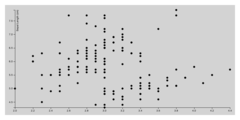
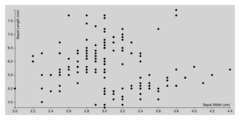
Updated linked view example README

diff --git a/docs/reactivis.html b/docs/reactivis.html
@@ -251,7 +251,7 @@ store D3 selections of DOM elements on the model.</p>
             </div>
             
             <div class="content"><div class='highlight'><pre>    model.when(<span class="hljs-string">"container"</span>, <span class="hljs-function"><span class="hljs-keyword">function</span> <span class="hljs-params">(container)</span> </span>{
-      model.svg = d3.select(container).append(<span class="hljs-string">'svg'</span>)</pre></div></div>
+      model.svg = d3.select(container).append(<span class="hljs-string">'svg'</span>);</pre></div></div>
             
         </li>
         
@@ -264,12 +264,12 @@ store D3 selections of DOM elements on the model.</p>
               </div>
               <p>Use absolute positioning on the SVG element 
 so that CSS can be used to position the div later
-according to the model <code>box.x</code> and <code>box.y</code> properties.</p>
+according to the model <code>box.x</code> and <code>box.y</code> properties.
+.style(‘position’, ‘absolute’);</p>
 
             </div>
             
-            <div class="content"><div class='highlight'><pre>        .style(<span class="hljs-string">'position'</span>, <span class="hljs-string">'absolute'</span>);
-    });</pre></div></div>
+            <div class="content"><div class='highlight'><pre>    });</pre></div></div>
             
         </li>
         
@@ -313,14 +313,14 @@ according to the model <code>box.x</code> and <code>box.y</code> properties.</p>
               </div>
               <p>Set the CSS <code>left</code> and <code>top</code> properties
 to move the SVG element to <code>(box.x, box.y)</code>
-relative to the container to apply the offset.</p>
+relative to the container to apply the offset.
+svg
+ .style(‘left’, box.x + ‘px’)
+ .style(‘top’, box.y + ‘px’);</p>
 
             </div>
             
-            <div class="content"><div class='highlight'><pre>      svg
-        .style(<span class="hljs-string">'left'</span>, box.x + <span class="hljs-string">'px'</span>)
-        .style(<span class="hljs-string">'top'</span>, box.y + <span class="hljs-string">'px'</span>);
-    });</pre></div></div>
+            <div class="content"><div class='highlight'><pre>    });</pre></div></div>
             
         </li>
         
@@ -397,6 +397,23 @@ relative to the container to apply the offset.</p>
               <div class="pilwrap ">
                 <a class="pilcrow" href="#section-19">&#182;</a>
               </div>
+              <p>Update the X axis label position when width changes.</p>
+
+            </div>
+            
+            <div class="content"><div class='highlight'><pre>    model.when([<span class="hljs-string">"xAxisText"</span>, <span class="hljs-string">"width"</span>], <span class="hljs-function"><span class="hljs-keyword">function</span> <span class="hljs-params">(xAxisText, width)</span> </span>{
+      xAxisText.attr(<span class="hljs-string">"x"</span>, width);
+    });</pre></div></div>
+            
+        </li>
+        
+        
+        <li id="section-20">
+            <div class="annotation">
+              
+              <div class="pilwrap ">
+                <a class="pilcrow" href="#section-20">&#182;</a>
+              </div>
               <p>Update the X axis based on the X scale.</p>
 
             </div>
@@ -404,6 +421,23 @@ relative to the container to apply the offset.</p>
             <div class="content"><div class='highlight'><pre>    model.when([<span class="hljs-string">"xAxisG"</span>, <span class="hljs-string">"xScale"</span>], <span class="hljs-function"><span class="hljs-keyword">function</span> <span class="hljs-params">(xAxisG, xScale)</span> </span>{
       xAxis.scale(xScale);
       xAxisG.call(xAxis);
+    });</pre></div></div>
+            
+        </li>
+        
+        
+        <li id="section-21">
+            <div class="annotation">
+              
+              <div class="pilwrap ">
+                <a class="pilcrow" href="#section-21">&#182;</a>
+              </div>
+              <p>Update X axis label.</p>
+
+            </div>
+            
+            <div class="content"><div class='highlight'><pre>    model.when([<span class="hljs-string">"xAxisText"</span>, <span class="hljs-string">"xAxisLabel"</span>], <span class="hljs-function"><span class="hljs-keyword">function</span> <span class="hljs-params">(xAxisText, xAxisLabel)</span> </span>{
+      xAxisText.text(xAxisLabel);
     });
   };
 
@@ -425,11 +459,11 @@ relative to the container to apply the offset.</p>
         </li>
         
         
-        <li id="section-20">
+        <li id="section-22">
             <div class="annotation">
               
               <div class="pilwrap ">
-                <a class="pilcrow" href="#section-20">&#182;</a>
+                <a class="pilcrow" href="#section-22">&#182;</a>
               </div>
               <p>Adjust Y axis tick mark parameters.
 See <a href="https://github.com/mbostock/d3/wiki/Quantitative-Scales#linear_tickFormat">https://github.com/mbostock/d3/wiki/Quantitative-Scales#linear_tickFormat</a></p>
@@ -443,29 +477,46 @@ See <a href="https://github.com/mbostock/d3/wiki/Quantitative-Scales#linear_tick
         </li>
         
         
-        <li id="section-21">
+        <li id="section-23">
             <div class="annotation">
               
               <div class="pilwrap ">
-                <a class="pilcrow" href="#section-21">&#182;</a>
+                <a class="pilcrow" href="#section-23">&#182;</a>
               </div>
               <p>Update the Y axis based on the Y scale.</p>
 
             </div>
             
-            <div class="content"><div class='highlight'><pre>    model.when([<span class="hljs-string">"yAxisG"</span>, <span class="hljs-string">"yScale"</span>], <span class="hljs-function"><span class="hljs-keyword">function</span> <span class="hljs-params">(yAxisG, yScale)</span> </span>{
+            <div class="content"><div class='highlight'><pre>    model.when([<span class="hljs-string">"yAxisG"</span>, <span class="hljs-string">"yScale"</span>], <span class="hljs-function"><span class="hljs-keyword">function</span> <span class="hljs-params">(yAxisG, yScale)</span> </span>{</pre></div></div>
+            
+        </li>
+        
+        
+        <li id="section-24">
+            <div class="annotation">
+              
+              <div class="pilwrap ">
+                <a class="pilcrow" href="#section-24">&#182;</a>
+              </div>
+              <p>TODO mote transitionDuration into the model.</p>
+
+            </div>
+            
+            <div class="content"><div class='highlight'><pre>      <span class="hljs-keyword">var</span> transitionDuration = <span class="hljs-number">100</span>;
       yAxis.scale(yScale);
-      yAxisG.call(yAxis);
+      yAxisG
+        .transition().duration(transitionDuration)
+        .call(yAxis);
     });</pre></div></div>
             
         </li>
         
         
-        <li id="section-22">
+        <li id="section-25">
             <div class="annotation">
               
               <div class="pilwrap ">
-                <a class="pilcrow" href="#section-22">&#182;</a>
+                <a class="pilcrow" href="#section-25">&#182;</a>
               </div>
               <p>Update Y axis label.</p>
 

diff --git a/docs/table.html b/docs/table.html
@@ -45,7 +45,7 @@
 
             </div>
             
-            <div class="content"><div class='highlight'><pre>define([<span class="hljs-string">'d3'</span>, <span class="hljs-string">'model'</span>], <span class="hljs-function"><span class="hljs-keyword">function</span> <span class="hljs-params">(d3, Model)</span> </span>{
+            <div class="content"><div class='highlight'><pre>define([<span class="hljs-string">'d3'</span>, <span class="hljs-string">'model'</span>, <span class="hljs-string">'lodash'</span>], <span class="hljs-function"><span class="hljs-keyword">function</span> <span class="hljs-params">(d3, Model, _)</span> </span>{
   <span class="hljs-keyword">return</span> <span class="hljs-function"><span class="hljs-keyword">function</span> <span class="hljs-title">Table</span><span class="hljs-params">(container)</span> </span>{
     <span class="hljs-keyword">var</span> model = Model(),
         div = d3.select(container)</pre></div></div>
@@ -63,7 +63,7 @@
 
             </div>
             
-            <div class="content"><div class='highlight'><pre>          .append(<span class="hljs-string">'div'</span>)</pre></div></div>
+            <div class="content"><div class='highlight'><pre>          .append(<span class="hljs-string">'div'</span>),</pre></div></div>
             
         </li>
         
@@ -74,11 +74,11 @@
               <div class="pilwrap ">
                 <a class="pilcrow" href="#section-3">&#182;</a>
               </div>
-              <p>Make the container div scrollable</p>
+              <p>Append the HTML table to the container div</p>
 
             </div>
             
-            <div class="content"><div class='highlight'><pre>          .style(<span class="hljs-string">'overflow-y'</span>, <span class="hljs-string">'auto'</span>),</pre></div></div>
+            <div class="content"><div class='highlight'><pre>        table = div.append(<span class="hljs-string">'table'</span>)</pre></div></div>
             
         </li>
         
@@ -89,11 +89,11 @@
               <div class="pilwrap ">
                 <a class="pilcrow" href="#section-4">&#182;</a>
               </div>
-              <p>Append the HTML table to the container div</p>
+              <p>Use Bootstrap ‘table’ class</p>
 
             </div>
             
-            <div class="content"><div class='highlight'><pre>        table = div.append(<span class="hljs-string">'table'</span>)</pre></div></div>
+            <div class="content"><div class='highlight'><pre>          .attr(<span class="hljs-string">'class'</span>, <span class="hljs-string">'table'</span>),</pre></div></div>
             
         </li>
         
@@ -104,11 +104,12 @@
               <div class="pilwrap ">
                 <a class="pilcrow" href="#section-5">&#182;</a>
               </div>
-              <p>Use Bootstrap ‘table’ class</p>
+              <p>Append table header and table body</p>
 
             </div>
             
-            <div class="content"><div class='highlight'><pre>          .attr(<span class="hljs-string">'class'</span>, <span class="hljs-string">'table'</span>),</pre></div></div>
+            <div class="content"><div class='highlight'><pre>        thead = table.append(<span class="hljs-string">'thead'</span>).append(<span class="hljs-string">'tr'</span>),
+        tbody = table.append(<span class="hljs-string">'tbody'</span>),</pre></div></div>
             
         </li>
         
@@ -119,12 +120,11 @@
               <div class="pilwrap ">
                 <a class="pilcrow" href="#section-6">&#182;</a>
               </div>
-              <p>Append table header and table body</p>
+              <p>Re-render the table at most once every 100 ms.</p>
 
             </div>
             
-            <div class="content"><div class='highlight'><pre>        thead = table.append(<span class="hljs-string">'thead'</span>).append(<span class="hljs-string">'tr'</span>),
-        tbody = table.append(<span class="hljs-string">'tbody'</span>);</pre></div></div>
+            <div class="content"><div class='highlight'><pre>        throttleWait = <span class="hljs-number">100</span>;</pre></div></div>
             
         </li>
         
@@ -139,7 +139,7 @@
 
             </div>
             
-            <div class="content"><div class='highlight'><pre>    model.when([<span class="hljs-string">'data'</span>, <span class="hljs-string">'columns'</span>], <span class="hljs-function"><span class="hljs-keyword">function</span> <span class="hljs-params">(data, columns)</span> </span>{
+            <div class="content"><div class='highlight'><pre>    model.when([<span class="hljs-string">'data'</span>, <span class="hljs-string">'columns'</span>], _.throttle(<span class="hljs-function"><span class="hljs-keyword">function</span> <span class="hljs-params">(data, columns)</span> </span>{
       <span class="hljs-keyword">var</span> titles, tr, td;</pre></div></div>
             
         </li>
@@ -198,7 +198,7 @@
       td.enter().append(<span class="hljs-string">'td'</span>);
       td.exit().remove();
       td.text( <span class="hljs-function"><span class="hljs-keyword">function</span> <span class="hljs-params">(d)</span> </span>{ <span class="hljs-keyword">return</span> d; });
-    });
+    }, throttleWait));
 
     <span class="hljs-keyword">return</span> model;
   };

diff --git a/docs/barChart.html b/docs/barChart.html
@@ -38,7 +38,7 @@
 
             </div>
             
-            <div class="content"><div class='highlight'><pre>define([<span class="hljs-string">"d3"</span>, <span class="hljs-string">"model"</span>, <span class="hljs-string">"modelContrib/reactivis"</span>], <span class="hljs-function"><span class="hljs-keyword">function</span> <span class="hljs-params">(d3, Model, Reactivis)</span> </span>{
+            <div class="content"><div class='highlight'><pre>define([<span class="hljs-string">"d3"</span>, <span class="hljs-string">"lodash"</span>, <span class="hljs-string">"model"</span>, <span class="hljs-string">"modelContrib/reactivis"</span>], <span class="hljs-function"><span class="hljs-keyword">function</span> <span class="hljs-params">(d3, _, Model, Reactivis)</span> </span>{
   <span class="hljs-keyword">return</span> <span class="hljs-function"><span class="hljs-keyword">function</span> <span class="hljs-title">BarChart</span> <span class="hljs-params">(container)</span> </span>{
     <span class="hljs-keyword">var</span> defaults = {
           margin: {
@@ -51,7 +51,9 @@
           yAxisTickFormat: <span class="hljs-string">""</span>,
           container: container
         },
-        model = Model();
+        model = Model(),
+
+        transitionDuration = <span class="hljs-number">100</span>;
 
     model.set(defaults);</pre></div></div>
             
@@ -132,19 +134,21 @@
             </div>
             
             <div class="content"><div class='highlight'><pre>    model.when([<span class="hljs-string">"g"</span>, <span class="hljs-string">"data"</span>, <span class="hljs-string">"xAttribute"</span>, <span class="hljs-string">"yAttribute"</span>, <span class="hljs-string">"xScale"</span>, <span class="hljs-string">"yScale"</span>, <span class="hljs-string">"height"</span>],
-        <span class="hljs-function"><span class="hljs-keyword">function</span> <span class="hljs-params">(g, data, xAttribute, yAttribute, xScale, yScale, height)</span> </span>{
+        _.throttle(<span class="hljs-function"><span class="hljs-keyword">function</span> <span class="hljs-params">(g, data, xAttribute, yAttribute, xScale, yScale, height)</span> </span>{
 
       <span class="hljs-keyword">var</span> bars = g.selectAll(<span class="hljs-string">".bar"</span>).data(data);
 
       bars.enter().append(<span class="hljs-string">"rect"</span>).attr(<span class="hljs-string">"class"</span>, <span class="hljs-string">"bar"</span>);
 
-      bars.attr(<span class="hljs-string">"x"</span>, <span class="hljs-function"><span class="hljs-keyword">function</span><span class="hljs-params">(d)</span> </span>{ <span class="hljs-keyword">return</span> xScale(d[xAttribute]); })
+      bars
+        .transition().duration(transitionDuration)
+        .attr(<span class="hljs-string">"x"</span>, <span class="hljs-function"><span class="hljs-keyword">function</span><span class="hljs-params">(d)</span> </span>{ <span class="hljs-keyword">return</span> xScale(d[xAttribute]); })
         .attr(<span class="hljs-string">"width"</span>, xScale.rangeBand())
         .attr(<span class="hljs-string">"y"</span>, <span class="hljs-function"><span class="hljs-keyword">function</span><span class="hljs-params">(d)</span> </span>{ <span class="hljs-keyword">return</span> yScale(d[yAttribute]); })
         .attr(<span class="hljs-string">"height"</span>, <span class="hljs-function"><span class="hljs-keyword">function</span><span class="hljs-params">(d)</span> </span>{ <span class="hljs-keyword">return</span> height - yScale(d[yAttribute]); });
 
       bars.exit().remove();
-    });
+    }), transitionDuration);
 
     <span class="hljs-keyword">return</span> model;
   };

diff --git a/modules/barChart.js b/modules/barChart.js
@@ -6,7 +6,7 @@
 //  * Also demonstrated in the [model-contrib barChart example](../#/barChart)
 //
 // By Curran Kelleher August 2014
-define(["d3", "model", "modelContrib/reactivis"], function (d3, Model, Reactivis) {
+define(["d3", "lodash", "model", "modelContrib/reactivis"], function (d3, _, Model, Reactivis) {
   return function BarChart (container) {
     var defaults = {
           margin: {

diff --git a/docs/scatterPlot.html b/docs/scatterPlot.html
@@ -50,7 +50,8 @@
           yAxisNumTicks: <span class="hljs-number">10</span>,
           yAxisTickFormat: <span class="hljs-string">""</span>,
           <span class="hljs-comment">/* TODO implement xAxisTickFormat*/</span>
-          container: container
+          container: container,
+          brushedIntervals: {}
         },
         model = Model();
 

diff --git a/examples/linkedViews/index.html b/examples/linkedViews/index.html
@@ -11,10 +11,10 @@
   <body>
     <div class="container">
       <div class="row">
-        <div class="col-md-6">
+        <div class="col-sm-6">
           <div id="scatterPlot"> </div>
         </div>
-        <div class="col-md-6">
+        <div class="col-sm-6">
           <div id="barChart"> </div>
         </div>
       </div>

diff --git a/examples/linkedViews/main.js b/examples/linkedViews/main.js
@@ -6,7 +6,7 @@ require(["d3", "modelContrib/barChart", "modelContrib/scatterPlot", "modelContri
    
       // Each visualization has this height,
       // and the width is computed by CSS.
-      visHeight = 500;
+      visHeight = 350;
   
 
   scatterPlot.set({

diff --git a/examples/linkedViews/README.md b/examples/linkedViews/README.md
@@ -1,6 +1,22 @@
-An example of multiple linked views using `model.js`. This builds on two other examples, the [bar chart](http://curran.github.io/model-contrib/#/examples/barChart) and [scatter plot](http://curran.github.io/model-contrib/#/examples/scatterPlot).
+An example of linked views using [`model.js`](https://github.com/curran/model). Click and drag in the scatter plot to filter the data used as input to the bar chart and table.
 
-Click and drag in the scatter plot to filter the data used as input to the bar chart. The Iris flowers selected as dots within the brushed region are grouped by species and summed to produce the data used as input to the bar chart.
+The Iris data set is displayed in the scatter plot on the right. Brushing in the scatter plot causes the table below to show only selected data points. The selected data points are aggregated (counted) by Iris species.
 
-Curran Kelleher
+Uses:
+
+ * [modelContrib/scatterPlot](http://curran.github.io/model-contrib/#/modules/scatterPlot)
+ * [modelContrib/barChart](http://curran.github.io/model-contrib/#/modules/barChart)
+ * [modelContrib/table](http://curran.github.io/model-contrib/#/modules/table)
+ * [Crossfilter](http://square.github.io/crossfilter/) for computing filters and aggregations
+ * [Bootstrap](http://getbootstrap.com/) for arranging the visualizations on the page and styling the table
+
+Draws from:
+
+ * [bar chart example](http://curran.github.io/model-contrib/#/examples/barChart)
+ * [scatter plot example](http://curran.github.io/model-contrib/#/examples/scatterPlot)
+ * [table example](http://curran.github.io/model-contrib/#/examples/table)
+ * [Crossfilter API Reference](https://github.com/square/crossfilter/wiki/API-Reference)
+ * [Bootstrap Grid Layout Documentation](http://getbootstrap.com/css/#grid) for arranging the visualizations on the page.
+
+By Curran Kelleher
 August 2014
